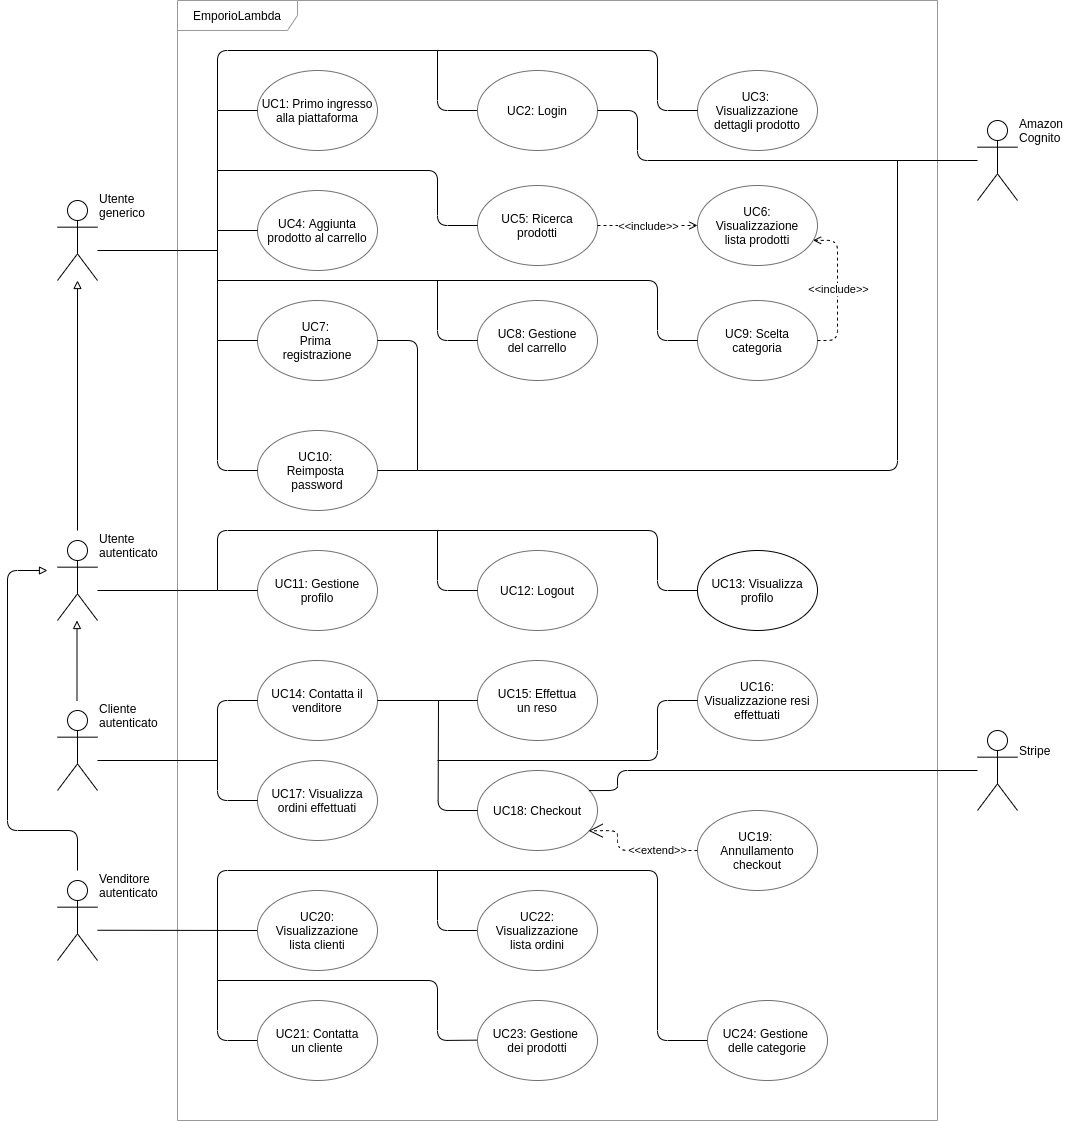
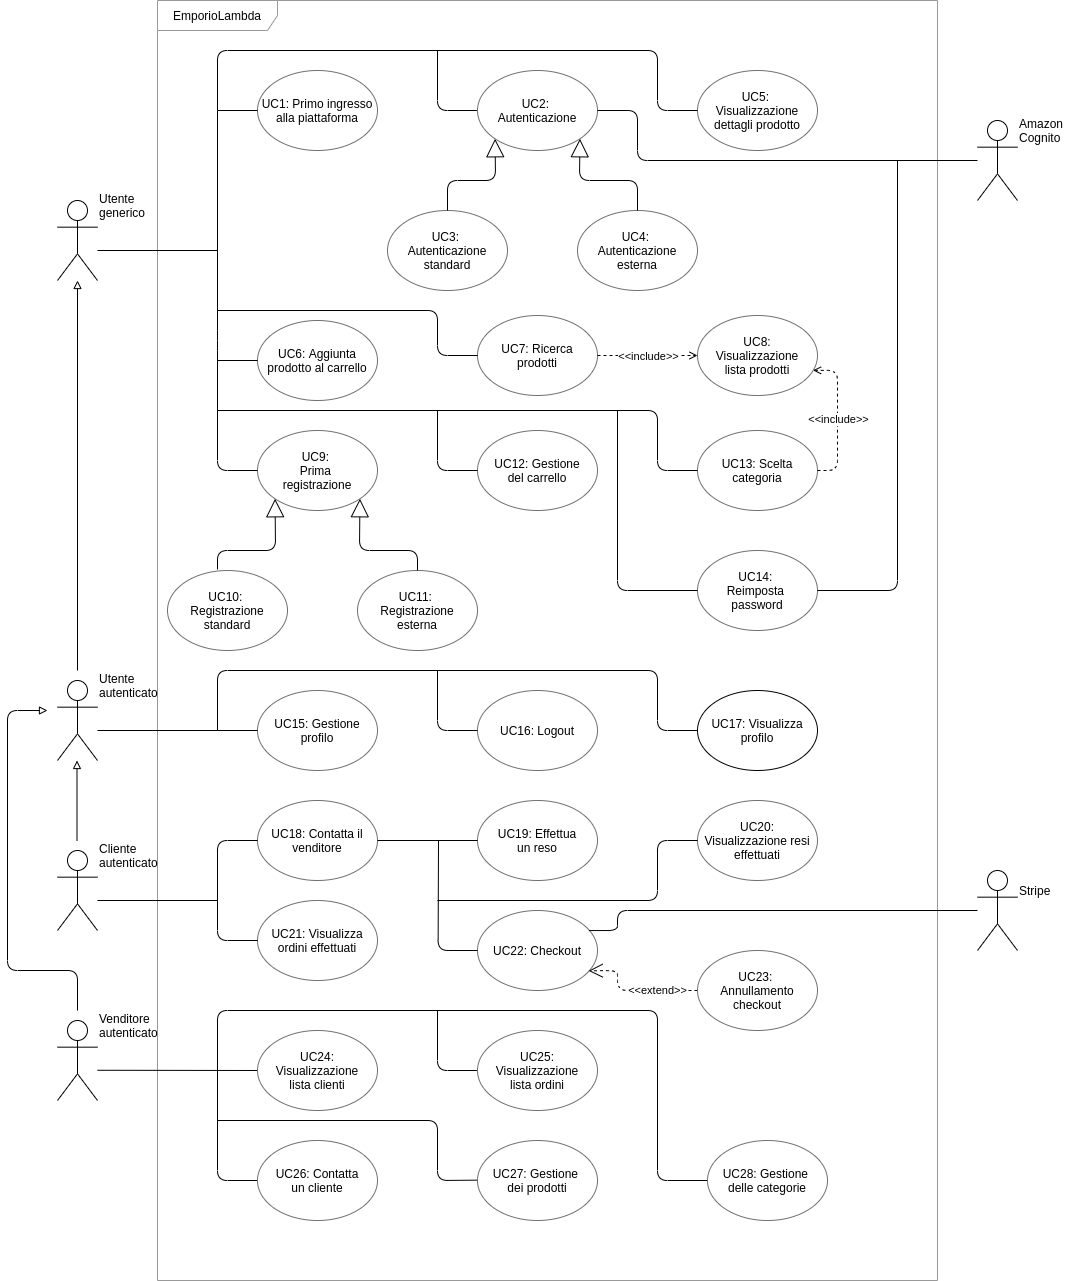
fix

diff --git a/RR/Documenti Esterni/Analisi dei Requisiti/sezioni/casi uso/UC08.tex b/RR/Documenti Esterni/Analisi dei Requisiti/sezioni/casi uso/UC08.tex
@@ -1,9 +1,9 @@
-\subsection{UC6: Visualizzazione della lista dei prodotti}
+\subsection{UC8: Visualizzazione della lista dei prodotti}
         \label{sec:UC8}
         \begin{figure}[!ht]
-            \caption{Diagramma di UC6: Visualizzazione della lista dei prodotti}
+            \caption{Diagramma di UC8: Visualizzazione della lista dei prodotti}
             \vspace{10px}
-            \includegraphics[scale=0.5]{../../../Images/AnalisiRequisiti/UC6.png}
+            \includegraphics[scale=0.5]{../../../Images/AnalisiRequisiti/UC08.png}
             \centering
         \end{figure}
         \begin{itemize}
@@ -23,7 +23,7 @@
         \begin{itemize}
             \item \textbf{Descrizione:} l'utente seleziona la modalità in cui visualizzare i file;
             \item \textbf{Attore Primario:} utente generico;
-            \item \textbf{Precondizione:} l'utente si trova all'interno della pagina con la lista dei prodotti(\hyperref[sec:UC6]{\underline{UC6}});
+            \item \textbf{Precondizione:} l'utente si trova all'interno della pagina con la lista dei prodotti (\hyperref[sec:UC8]{\underline{UC8}});
             \item \textbf{Input:} selezione del parametro scelto;
             \item \textbf{Postcondizione:} la lista dei prodotti si aggiorna secondo l'ordinamento scelto;
             \item \textbf{Scenario Principale:}
@@ -38,7 +38,7 @@
         \begin{itemize}
             \item \textbf{Descrizione:} l'utente filtra i prodotti in base alle loro caratteristiche;
             \item \textbf{Attore Primarilo:} utente generico
-            \item \textbf{Precondizione:} l'utente si trova all'interno della pagina con la lista dei prodotti (\hyperref[sec:UC6]{\underline{UC6}});
+            \item \textbf{Precondizione:} l'utente si trova all'interno della pagina con la lista dei prodotti (\hyperref[sec:UC8]{\underline{UC8}});
             \item \textbf{Input:} selezione del filtro desiderato;
             \item \textbf{Postcondizione:} la pagina si aggiorna secondo i filtri selezionati;
             \item \textbf{Scenario Principale:}

diff --git a/RR/Documenti Esterni/Analisi dei Requisiti/sezioni/casi uso/UC03.tex b/RR/Documenti Esterni/Analisi dei Requisiti/sezioni/casi uso/UC03.tex
@@ -1,16 +1,22 @@
-\subsection{UC2: Autenticazione standard}
-        \label{sec:UC2}
+\subsection{UC3: Autenticazione standard}
+    \label{sec:UC3}
+    \begin{figure}[!ht]
+        \caption{Diagramma di UC3: Autenticazione standard}
+        \vspace{10px}
+        \includegraphics[scale=0.5]{../../../Images/AnalisiRequisiti/UC03}
+        \centering
+    \end{figure}
+    \begin{itemize}
+        \item \textbf{Descrizione:} permette l'autenticazione di un utente;
+        \item \textbf{Attore Primario:} utente generico;
+        \item \textbf{Attore Secondario:} Amazon Cognito;
+        \item \textbf{Precondizione:} l'utente generico non si è ancora autenticato
+        \item \textbf{Input:} pressione bottone login;
+        \item \textbf{Postcondizione:} l'utente è autenticato;
+        \item \textbf{Scenario Principale:} 
         \begin{itemize}
-            \item \textbf{Descrizione:} permette l'autenticazione di un utente;
-            \item \textbf{Attore Primario:} utente generico;
-            \item \textbf{Attore Secondario:} Amazon Cognito;
-            \item \textbf{Precondizione:} l'utente generico non si è ancora autenticato
-            \item \textbf{Input:} pressione bottone login;
-            \item \textbf{Postcondizione:} l'utente è autenticato;
-            \item \textbf{Scenario Principale:} 
-            \begin{itemize}
-                \item l'utente entra nella pagina
-                \item preme il bottone per il login
-                \item viene inderizzato alla pagina di login fornita da \textit{Amazon Cognito}.
-            \end{itemize}
+            \item l'utente entra nella pagina
+            \item preme il bottone per il login
+            \item viene inderizzato alla pagina di login fornita da \textit{Amazon Cognito}.
         \end{itemize}
+    \end{itemize}

diff --git a/RR/Documenti Esterni/Analisi dei Requisiti/sezioni/casi uso/UC12.tex b/RR/Documenti Esterni/Analisi dei Requisiti/sezioni/casi uso/UC12.tex
@@ -2,7 +2,7 @@
         \begin{figure}[!ht]
             \caption{Diagramma di UC12: Gestione del carrello}
             \vspace{10px}
-            \includegraphics[scale=0.5]{../../../Images/AnalisiRequisiti/UC8}
+            \includegraphics[scale=0.5]{../../../Images/AnalisiRequisiti/UC12}
             \centering
         \end{figure}
         \begin{itemize}
@@ -38,7 +38,7 @@
         \begin{itemize}
             \item \textbf{Descrizione:} sezione per rimuovere uno o più prodotti dal carrello;
             \item \textbf{Attore Primario:} utente generico;
-            \item \textbf{Precondizione:} l'utente è nella pagina del carrello (\hyperref[sec:UC8.1]{\underline{UC8.1}});
+            \item \textbf{Precondizione:} l'utente è nella pagina del carrello (\hyperref[sec:UC12.1]{\underline{UC12.1}});
             \item \textbf{Input:} l'utente seleziona i prodotti da rimuovere dal carrello;
             \item \textbf{Postcondizione:} vengono rimossi i prodotti selezionati;
         \end{itemize}
@@ -46,7 +46,7 @@
         \begin{itemize}
             \item \textbf{Descrizione:} sezione per modificare le quantità dei prodotti nel carrello;
             \item \textbf{Attore Primario:} utente generico;
-            \item \textbf{Precondizione:} l'utente è nella pagina del carrello (\hyperref[sec:UC8.1]{\underline{UC8.1}});
+            \item \textbf{Precondizione:} l'utente è nella pagina del carrello (\hyperref[sec:UC12.1]{\underline{UC12.1}});
             \item \textbf{Input:} l'utente inserisce le modifiche desiderate ai prodotti;
             \item \textbf{Postcondizione:} le modifiche sono applicate;
             \item \textbf{Estensioni:} 

diff --git a/RR/Documenti Esterni/Analisi dei Requisiti/sezioni/casi uso/UC05.tex b/RR/Documenti Esterni/Analisi dei Requisiti/sezioni/casi uso/UC05.tex
@@ -3,12 +3,12 @@
         \begin{itemize}
             \item \textbf{Descrizione:} l'utente può visualizzare i dettagli di un prodotto di suo interesse;
             \item \textbf{Attore Primario:} utente generico
-            \item \textbf{Precondizione:} l'utente generico si trova nella pagina della lista dei prodotti;
+            \item \textbf{Precondizione:} l'utente generico si trova nella pagina della lista dei prodotti (\hyperref[sec:UC8]{\underline{UC8}});
             \item \textbf{Input:} click sul prodotto (icona, immagine, nome);
             \item \textbf{Postcondizione:} l'utente visualizza i dettagli del prodotto d'interesse;
             \item \textbf{Scenario Principale:} 
                 \begin{itemize}
-                    \item l'utente si trova nella lista dei prodotti (\hyperref[sec:UC6]{\underline{UC6}});
+                    \item l'utente si trova nella lista dei prodotti;
                     \item l'utente visualizza un prodotto di suo interesse;
                     \item l'utente lo apre e ne visualizza i dettagli.
                 \end{itemize}

diff --git a/RR/Documenti Esterni/Analisi dei Requisiti/sezioni/casi uso/UC07.tex b/RR/Documenti Esterni/Analisi dei Requisiti/sezioni/casi uso/UC07.tex
@@ -6,7 +6,7 @@
             \item \textbf{Attore Primario:} utente generico;
             \item \textbf{Precondizione:} l'utente si trova in una pagina dedicata alla ricerca; 
             \item \textbf{Input:} stringa relativa a ciò che si vuole cercare;
-            \item \textbf{Postcondizione:} l'utente visualizza i prodotti corrispondenti alla parola chiave;
+            \item \textbf{Postcondizione:} l'utente visualizza i prodotti corrispondenti alla parola chiave (\hyperref[sec:UC8]{\underline{UC8}});
             \item \textbf{Scenario Principale:}
             \begin{itemize}
                 \item l'utente vuole ricercare un prodotto secondo una determinata parola chiave;
@@ -14,6 +14,6 @@
             \end{itemize}
             \item \textbf{Inclusioni:}
             \begin{itemize}
-                \item viene visualizzata una pagina con tutti i risultati della ricerca (\hyperref[sec:UC6]{\underline{UC6}}).
+                \item viene visualizzata una pagina con tutti i risultati della ricerca.
             \end{itemize}
         \end{itemize}

diff --git a/RR/Documenti Esterni/Analisi dei Requisiti/sezioni/casi uso/UC19.tex b/RR/Documenti Esterni/Analisi dei Requisiti/sezioni/casi uso/UC19.tex
@@ -3,7 +3,7 @@
 \begin{itemize}
     \item \textbf{Descrizione:} sezione per effettuare il reso di un ordine;
     \item \textbf{Attore Primario:} cliente autenticato;
-    \item \textbf{Precondizione:} il cliente si trova nella pagina per la visualizzazione dell'elenco degli ordini (\hyperref[sec:UC6]{\underline{UC6}});
+    \item \textbf{Precondizione:} il cliente si trova nella pagina per la visualizzazione dell'elenco degli ordini (\hyperref[sec:UC21]{\underline{UC21}});
     \item \textbf{Input:} il cliente clicca il bottone per entrare in questa sezione;
     \item \textbf{Postcondizione:} la richiesta di reso è andata a buon fine e i prodotti dell'ordine torneranno al venditore;
     \item \textbf{Scenario Principale:}

diff --git a/RR/Documenti Esterni/Analisi dei Requisiti/sezioni/casi uso/UC06.tex b/RR/Documenti Esterni/Analisi dei Requisiti/sezioni/casi uso/UC06.tex
@@ -3,7 +3,7 @@
         \begin{itemize}
             \item \textbf{Descrizione:} l'utente aggiunge al carrello un prodotto che intende acquistare;
             \item \textbf{Attore Primario:} utente generico;
-            \item \textbf{Precondizione:} l'utente generico di trova nella pagina dettagliata del prodotto (\hyperref[sec:UC3]{\underline{UC3}});
+            \item \textbf{Precondizione:} l'utente generico di trova nella pagina dettagliata del prodotto (\hyperref[sec:UC5]{\underline{UC5}});
             \item \textbf{Input:} click sul bottone di aggiunta al carrello;
             \item \textbf{Postcondizione:} il prodotto è stato aggiunto al carrello;
             \item \textbf{Scenario Principale:}

diff --git a/RR/Documenti Esterni/Analisi dei Requisiti/sezioni/casi uso/UC26.tex b/RR/Documenti Esterni/Analisi dei Requisiti/sezioni/casi uso/UC26.tex
@@ -3,7 +3,7 @@
 \begin{itemize}
     \item \textbf{Descrizione:} sezione per il venditore che permette di contattare un cliente;
     \item \textbf{Attore Primario:} venditore autenticato;
-    \item \textbf{Precondizione:} il venditore si trova nella lista dei suoi clienti (\hyperref[sec:UC20]{\underline{UC20}});
+    \item \textbf{Precondizione:} il venditore si trova nella lista dei suoi clienti (\hyperref[sec:UC24]{\underline{UC24}});
     \item \textbf{Input} il venditore clicca il bottone per entrare in questa sezione; 
     \item \textbf{Postcondizione:} il venditore ha inviato una e-mail ad un suo cliente;
     \item \textbf{Scenario Principale}

diff --git a/RR/Documenti Esterni/Analisi dei Requisiti/sezioni/casi uso/UC20.tex b/RR/Documenti Esterni/Analisi dei Requisiti/sezioni/casi uso/UC20.tex
@@ -3,7 +3,7 @@
 \begin{itemize}
     \item \textbf{Descrizione:} sezione per visualizzare l'elenco dei resi effettuati;
     \item \textbf{Attore Primario:} cliente autenticato;
-    \item \textbf{Precondizione:} l'utente si trova nella sezione degli ordini effettuati (\hyperref[sec:UC17]{\underline{UC17}})
+    \item \textbf{Precondizione:} l'utente si trova nella sezione degli ordini effettuati (\hyperref[sec:UC21]{\underline{UC21}})
     \item \textbf{Input:} l'utente clicca il bottone apposito per entrare il questa sezione;
     \item \textbf{Postcondizione:} l'utente visualizza l'elenco dei resi che ha effettuato;
 \end{itemize}

diff --git a/RR/Documenti Esterni/Analisi dei Requisiti/sezioni/casi uso/UC27.tex b/RR/Documenti Esterni/Analisi dei Requisiti/sezioni/casi uso/UC27.tex
@@ -1,7 +1,7 @@
 \subsection{UC27: Gestione dei prodotti}
         \label{sec:UC27}
         \begin{figure}[!ht]
-            \caption{Diagramma di UC21.1: Gestione dei prodotti}
+            \caption{Diagramma di UC27: Gestione dei prodotti}
             \vspace{10px}
             \includegraphics[scale=0.5]{../../../Images/AnalisiRequisiti/UC27}
             \centering

diff --git a/RR/Documenti Esterni/Analisi dei Requisiti/sezioni/casi uso/UC13.tex b/RR/Documenti Esterni/Analisi dei Requisiti/sezioni/casi uso/UC13.tex
@@ -12,6 +12,6 @@
     \end{itemize} 
     \item \textbf{Inclusioni:}
     \begin{itemize}
-        \item viene visualizzata una pagina con tutti i risultati della ricerca \hyperref[sec:UC6]{\underline{UC6}}.
+        \item viene visualizzata una pagina con tutti i risultati della ricerca \hyperref[sec:UC8]{\underline{UC8}}.
     \end{itemize}
 \end{itemize}

diff --git a/RR/Documenti Esterni/Analisi dei Requisiti/sezioni/casi uso/UC04.tex b/RR/Documenti Esterni/Analisi dei Requisiti/sezioni/casi uso/UC04.tex
@@ -1,5 +1,5 @@
-\subsection{UC2: Autenticazione esterna}
-        \label{sec:UC2}
+\subsection{UC4: Autenticazione esterna}
+        \label{sec:UC4}
         \begin{itemize}
             \item \textbf{Descrizione:} permette l'autenticazione di un utente;
             \item \textbf{Attore Primario:} utente generico;
